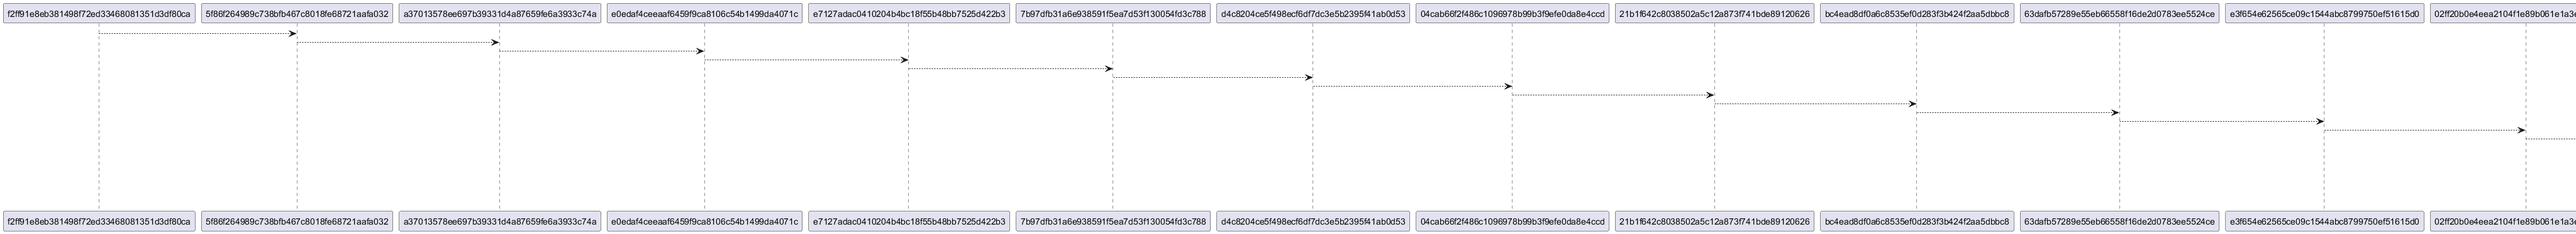
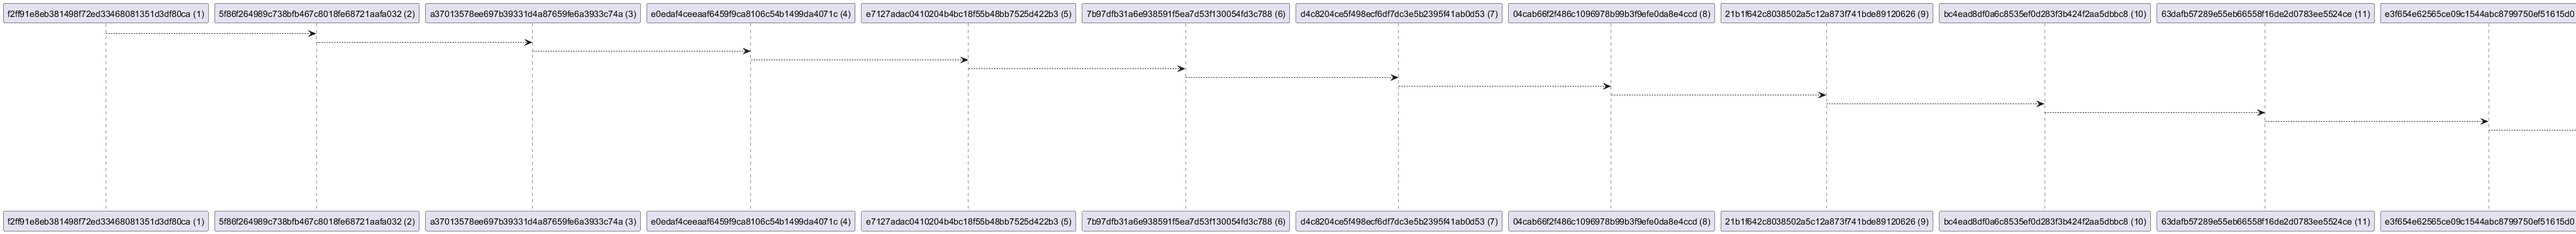
add number of commit

diff --git a/main.py b/main.py
@@ -82,10 +82,12 @@ def generate_plantuml(commit_graph):
     plantuml_lines = ["@startuml"]
 
     # Обеспечение зависимостей от ранних к поздним коммитам путем итерации по порядку
+    i = 1
     for commit, parents in commit_graph.items():
         if parents:
             for parent in parents:
-                plantuml_lines.append(f"{parent} --> {commit}")
+                plantuml_lines.append(f"\"{parent} ({i})\" --> \"{commit} ({i+1})\"")
+                i+=1
     
     plantuml_lines.append("@enduml")
     return "\n".join(plantuml_lines)

diff --git a/test.py b/test.py
@@ -46,7 +46,7 @@ commit message
         }
         plantuml_text = generate_plantuml(commit_graph)
         self.assertIn("@startuml", plantuml_text)
-        self.assertIn("abcd1234 --> efgh5678", plantuml_text)
+        self.assertIn("\"abcd1234 (1)\" --> \"efgh5678 (2)\"", plantuml_text)
         self.assertIn("@enduml", plantuml_text)
 
     @patch("builtins.open", new_callable=mock_open)
